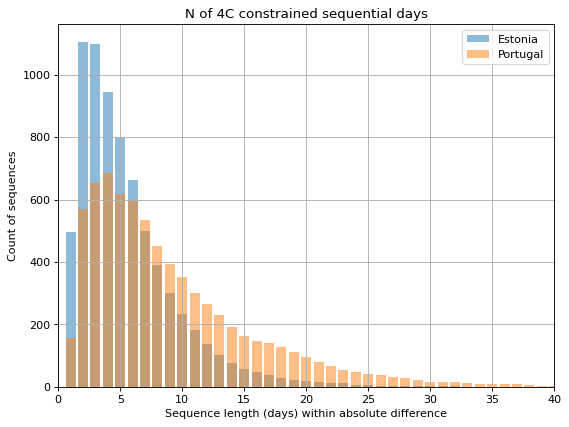
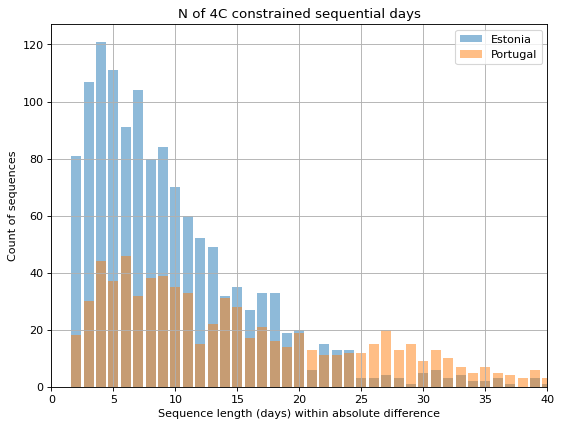
fixed example code and plots

diff --git a/index_b2.html b/index_b2.html
@@ -673,8 +673,8 @@ Current minheap is:
 
         <pre class="line-numbers">
           <code class="language-css">
-import heapq
 def constrainedSubarrayHist(A, limit):
+    import heapq
     len_dict = {}
     maxq, minq = [], []
     res = i = 0
@@ -685,14 +685,20 @@ def constrainedSubarrayHist(A, limit):
             i = min(maxq[0][1], minq[0][1]) + 1
             while maxq[0][1] < i: heapq.heappop(maxq)
             while minq[0][1] < i: heapq.heappop(minq)
+            if res in len_dict and res > 1:
+              len_dict[res] += 1
+              res = 0
+            elif res > 1:
+              len_dict[res] = 1
+              res = 0
         res = (j - i + 1)
-        
-        if res in len_dict:
-          len_dict[res] += 1
-        else:
-            len_dict[res] = 1
-        
-    return len_dict            
+    if res in len_dict and res > 1:
+      len_dict[res] += 1
+      res = 0
+    elif res > 1:
+      len_dict[res] = 1
+      res = 0
+    return len_dict                             
           </code>
         </pre>
 
@@ -722,13 +728,16 @@ def constrainedSubarrayHist(A, limit):
 
         <p style="text-align:justify; ">
         
-          We notice very little deviation from the two histograms, but a clear preference for longer sequences by Estonia. That is to say, there are on average longer periods of days
-          where the temperature does not shift by the 95th quantile shift. 
+          We notice a cacophony of differences and overlaps between the two histograms. It's unclear if there are different temperature persistence patterns at play, perhaps they are simply offset 
+          from each other, or the quantile level is not optimal to reflect a "typical extreme" threshold (seemed like the best I could cursory find at the time at least). If this graph is to
+          be interpreted however, then it appears that there is a preference for longer sequences by Estonia. That is to say, there are on average longer periods of days where the 
+          temperature does not shift by the 95th quantile shift. 
 
           <br><br>
 
           A bit more clearer is the second approach. Let's simply say, that we are looking for the distribution of lengths of sequential days, where the maximal difference in 
-          temperatures does not cross 4 degrees. Perhaps it's a bit low, but it should not change the relationship of the two countries histograms much. 
+          temperatures does not cross 6 degrees. The particular value changes the shape of individual histograms, but it does not change the relationship between them much (at least in 
+          a certain scaling region, that is to say around the values 3-7 where i checked). 
 
         </p>
 
@@ -739,8 +748,9 @@ def constrainedSubarrayHist(A, limit):
         <p style="text-align:justify; ">
 
           It turns out, that for a fixed temperature threshold, the differences between Portugal and Estonia are the opposite! They are also more visible, with Portugal preferring longer 
-          sequences constrained by the 4 degree bounds. We could interpret this as portugal showing on average longer periods without larger than 4 degree shifts, thus more stabile 
-          temperature in general. This is why both thresholding methods hold valuable information. 
+          sequences constrained by the 6 degree bounds. We could interpret this as Portugal showing on average longer periods without larger than 6 degree shifts, thus more stabile 
+          temperature in general. At the same time, the large peak in short sequences for Estonia reveals it's temperamental weather temperature changes - things don't stay the "same"
+          for as long. I believe both thresholding methods hold valuable information however. 
           
           <br><br>
 
